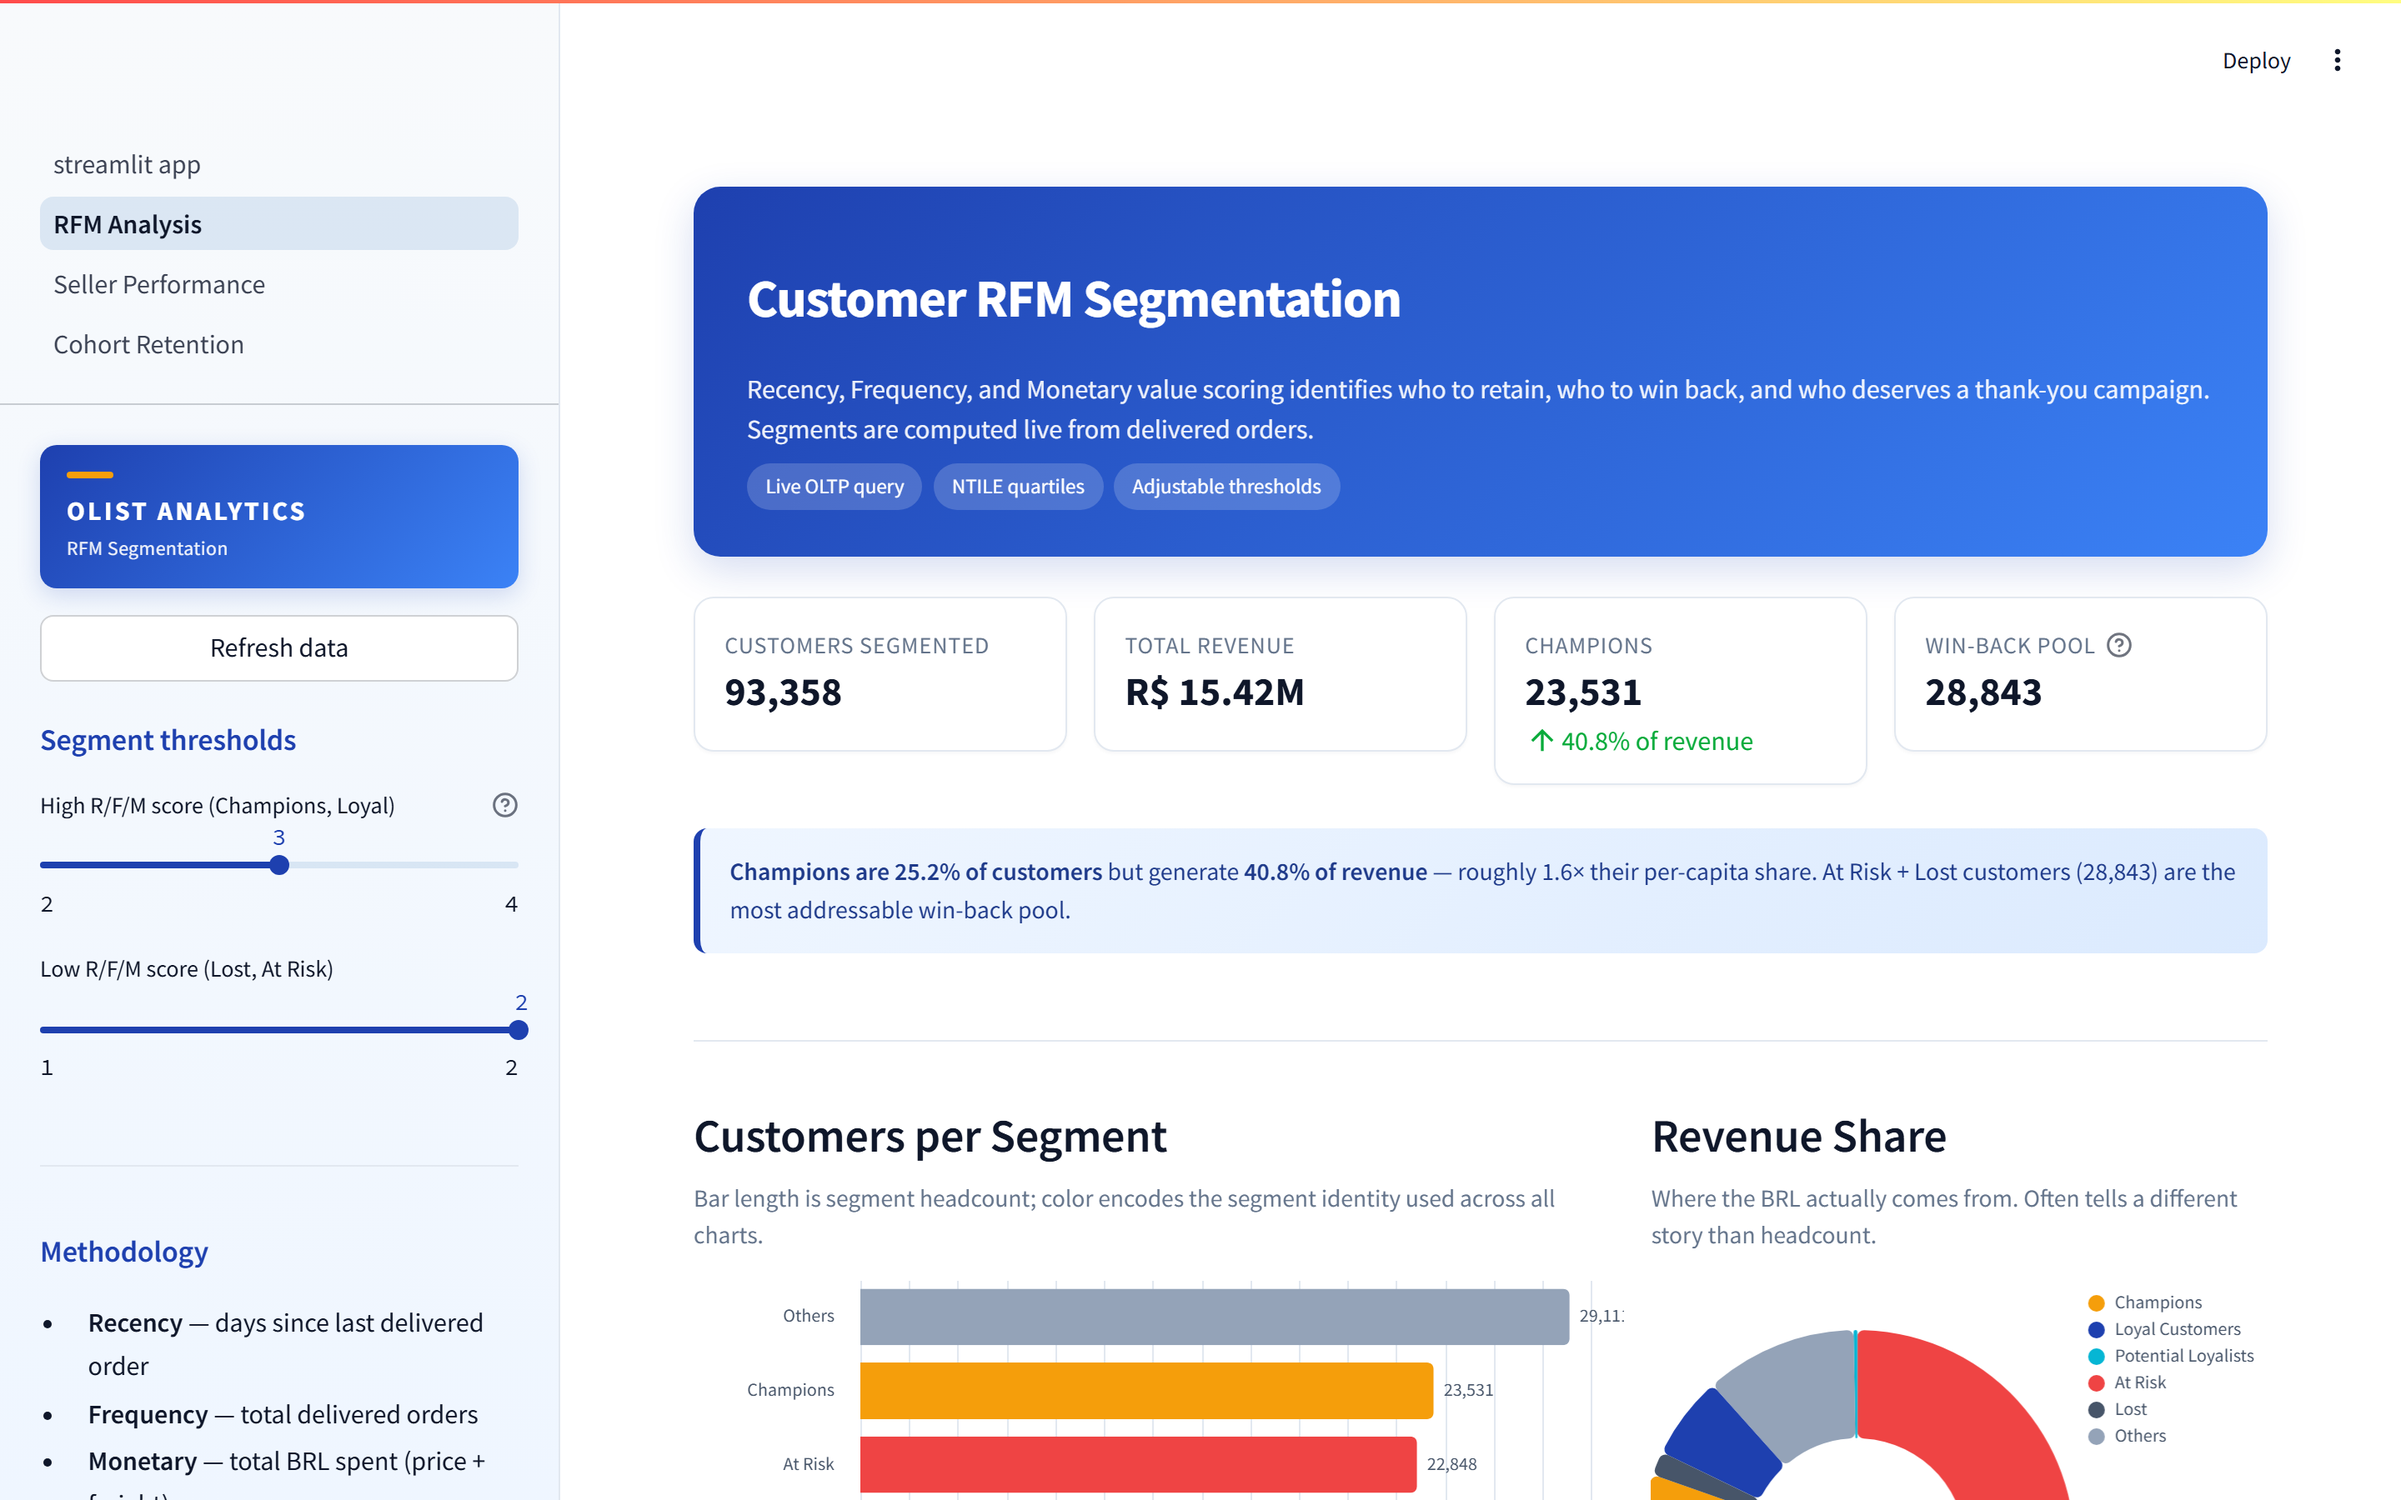
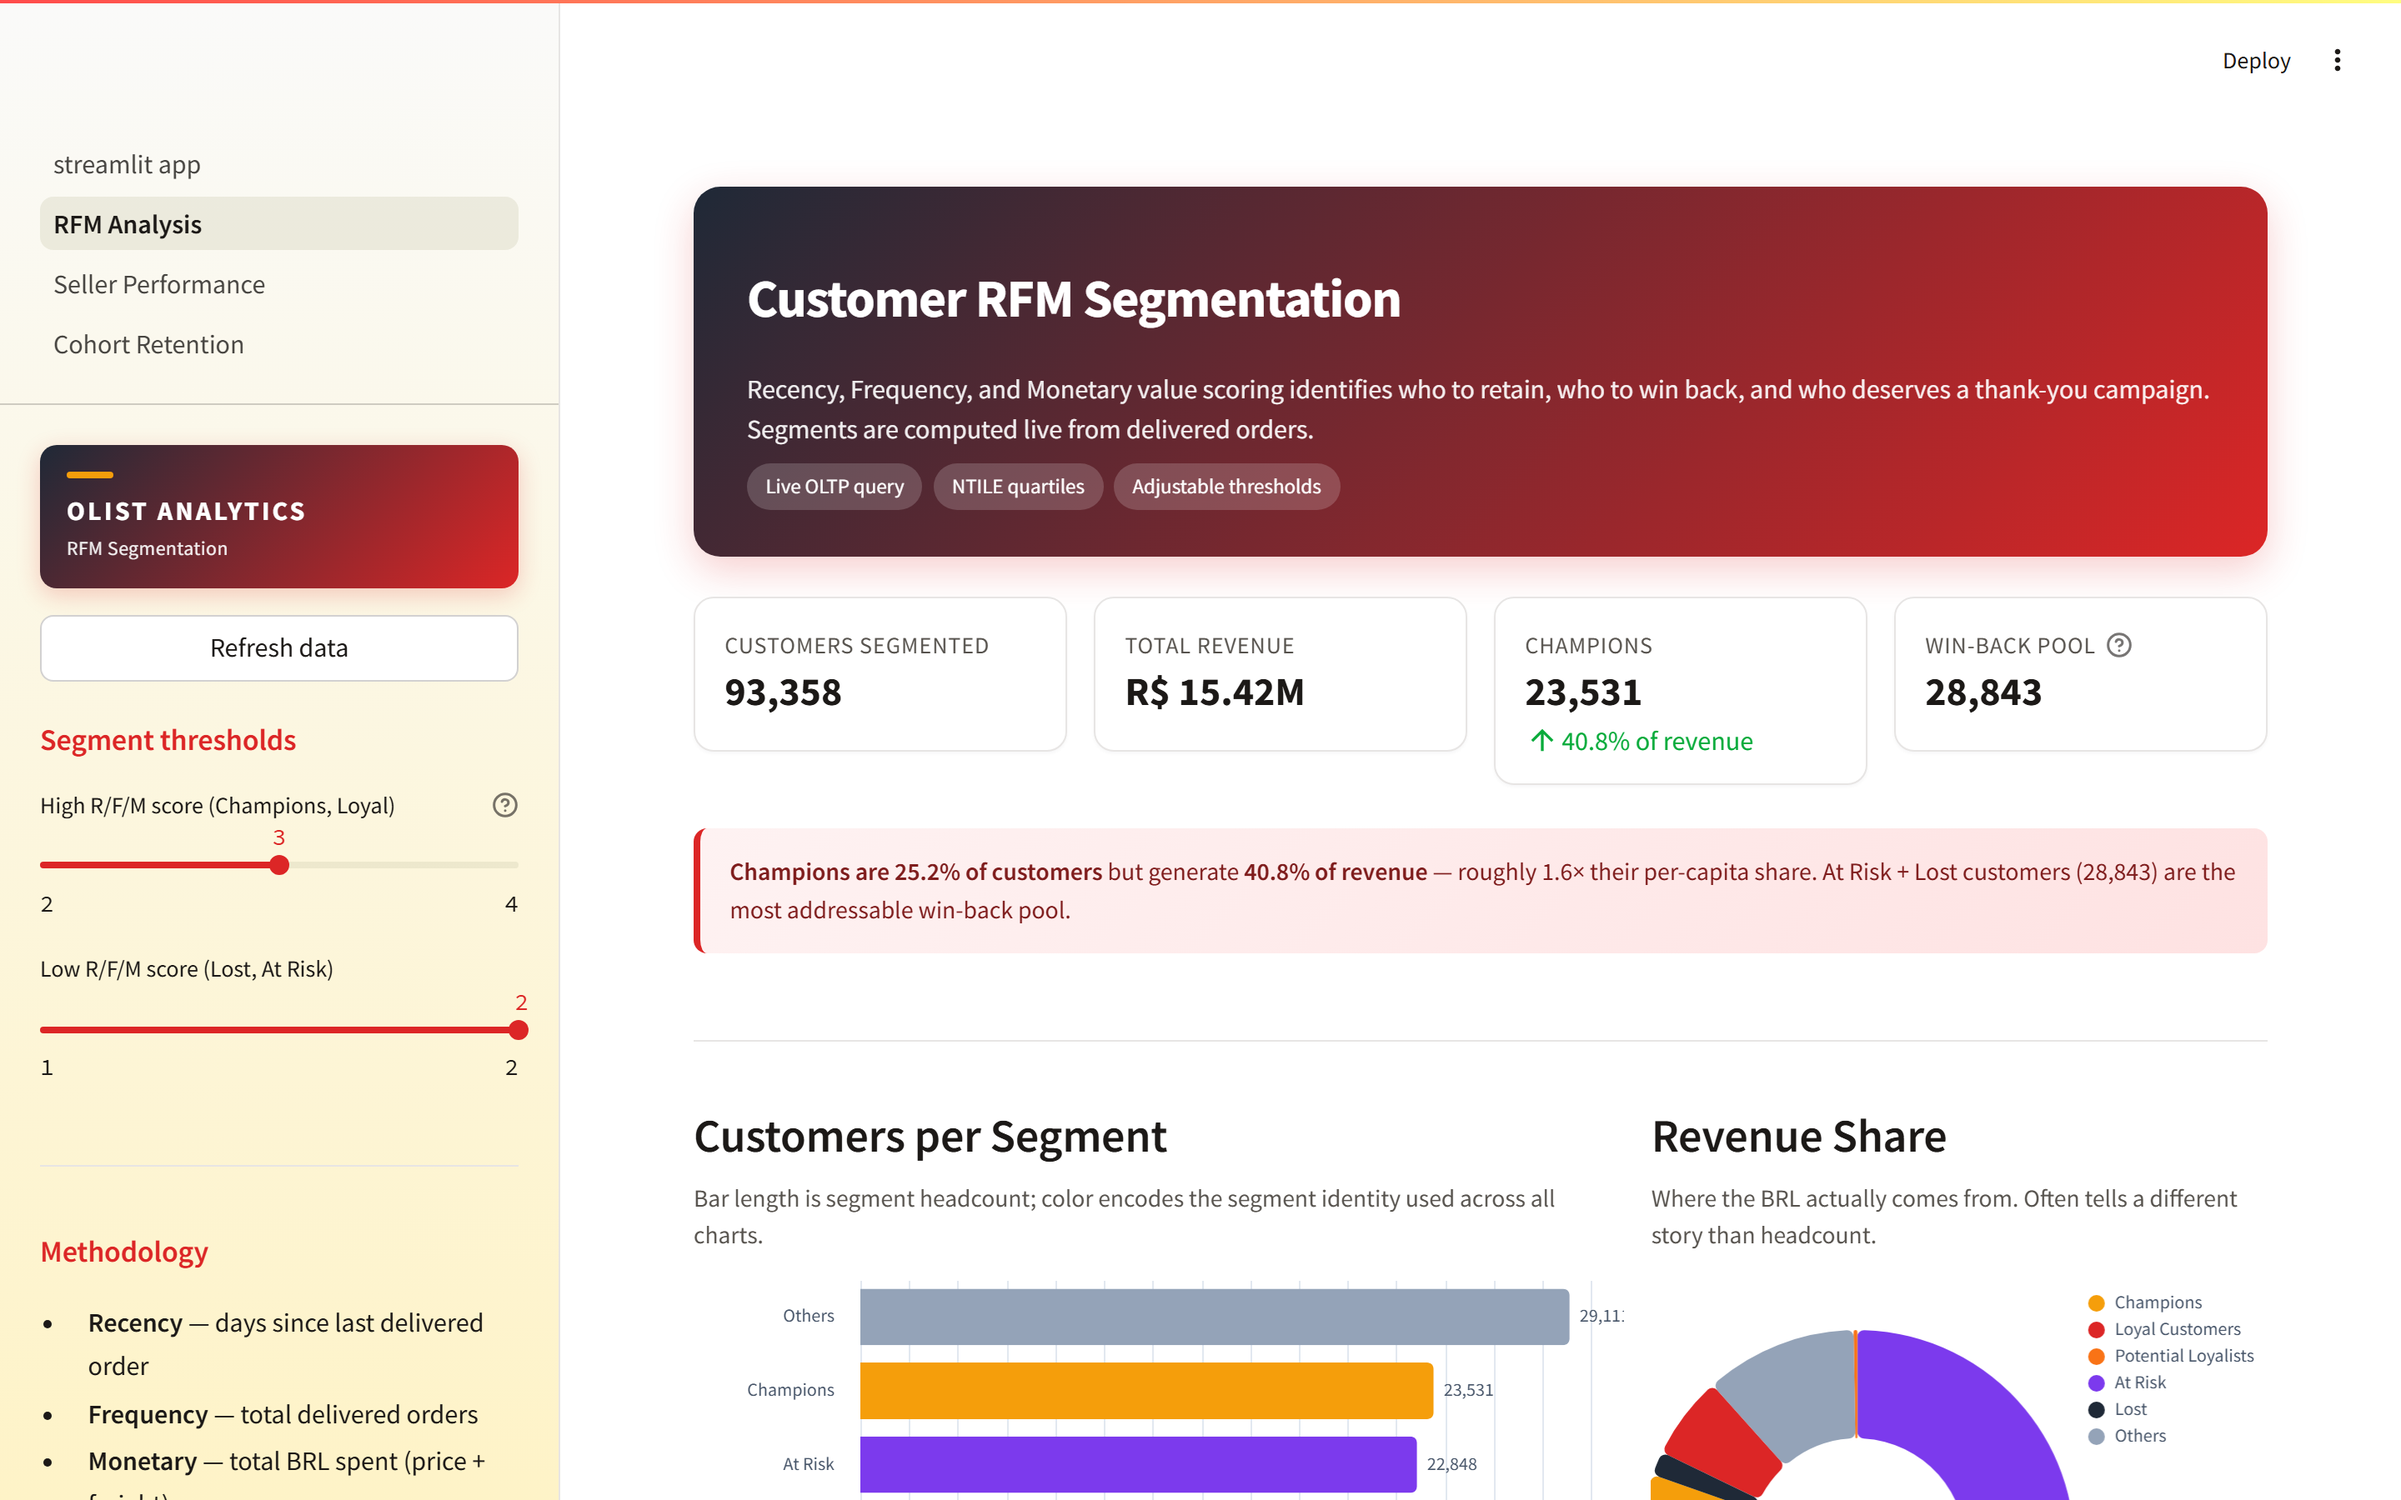
switch theme to volcano (charcoal + ember red) and fix cohort heatmap

diff --git a/app/pages/3_Cohort_Retention.py b/app/pages/3_Cohort_Retention.py
@@ -118,11 +118,17 @@ df["cohort_label"] = pd.to_datetime(df["cohort_month"]).dt.strftime("%Y-%m")
 
 cohorts_count = df["cohort_month"].nunique()
 total_customers = int(df.drop_duplicates("cohort_month")["cohort_size"].sum())
-month_1 = df.loc[df["months_since_first_purchase"] == 1, "retention_rate"]
+
+# Stats are computed from cohorts large enough to be meaningful (>= 50 customers)
+# so single-customer outliers don't drive the headline numbers.
+MIN_COHORT_FOR_STATS = 50
+meaningful = df[df["cohort_size"] >= MIN_COHORT_FOR_STATS]
+month_1 = meaningful.loc[meaningful["months_since_first_purchase"] == 1, "retention_rate"]
 avg_m1 = month_1.mean() if not month_1.empty else 0.0
 best_m1 = month_1.max() if not month_1.empty else 0.0
 best_m1_cohort = (
-    df.loc[df["months_since_first_purchase"] == 1].sort_values("retention_rate", ascending=False)
+    meaningful.loc[meaningful["months_since_first_purchase"] == 1]
+    .sort_values("retention_rate", ascending=False)
     .iloc[0]
     if not month_1.empty
     else None
@@ -142,22 +148,33 @@ c4.metric(
 
 if best_m1_cohort is not None and best_m1 > 0:
     insight(
-        f"<strong>Month-1 repeat rate averages {avg_m1:.2f}%</strong> across all cohorts — "
-        "low, as expected for transactional commerce where most customers buy a single item. "
-        f"The strongest comeback came from <strong>{pd.to_datetime(best_m1_cohort['cohort_month']):%b %Y}</strong> "
-        f"with {best_m1:.2f}% returning the next month."
+        f"<strong>Month-1 repeat rate averages {avg_m1:.2f}%</strong> across cohorts of "
+        f"50+ customers — low, as expected for transactional commerce where most customers "
+        "buy a single item. The strongest comeback came from "
+        f"<strong>{pd.to_datetime(best_m1_cohort['cohort_month']):%b %Y}</strong> with "
+        f"{best_m1:.2f}% returning the next month."
     )
 
 st.divider()
 
 st.subheader("Retention Heatmap (% of cohort active)")
 caption(
-    "Month 0 (always 100%) is omitted so the meaningful pattern is visible. "
-    "Hover any cell for exact counts and original cohort size."
+    "Month 0 (always 100%) is omitted, and cohorts with fewer than 50 customers are filtered "
+    "out so single-customer outliers don't distort the colors. Hover any cell for exact counts."
 )
 
-heatmap_df = df[df["months_since_first_purchase"] > 0].copy()
-color_max = max(heatmap_df["retention_rate"].max(), 5) if not heatmap_df.empty else 5
+MIN_COHORT_SIZE = 50
+heatmap_df = df[
+    (df["months_since_first_purchase"] > 0) & (df["cohort_size"] >= MIN_COHORT_SIZE)
+].copy()
+
+# Olist is highly transactional — meaningful repeat rates are tiny (0.0–1.0%).
+# Color scale auto-fits to the actual data so contrast is visible instead of
+# washed out by an arbitrary upper bound.
+if not heatmap_df.empty:
+    color_max = max(float(heatmap_df["retention_rate"].max()) * 1.1, 0.5)
+else:
+    color_max = 1.0
 
 heatmap = (
     alt.Chart(heatmap_df)
@@ -172,7 +189,7 @@ heatmap = (
         color=alt.Color(
             "retention_rate:Q",
             title="Retention %",
-            scale=alt.Scale(scheme="blues", domain=[0, color_max]),
+            scale=alt.Scale(scheme="reds", domain=[0, color_max], clamp=True),
             legend=alt.Legend(orient="right", gradientLength=400),
         ),
         tooltip=[
@@ -186,17 +203,17 @@ heatmap = (
     .properties(height=620)
 )
 
-# Only label cells with meaningful values to keep the grid clean
-label_df = heatmap_df[heatmap_df["retention_rate"] >= 1].copy()
+# Show every value (Olist values are small and we want to see them all)
+label_df = heatmap_df[heatmap_df["retention_rate"] > 0].copy()
 text = (
     alt.Chart(label_df)
     .mark_text(baseline="middle", fontSize=10, fontWeight=500)
     .encode(
         x=alt.X("months_since_first_purchase:O"),
         y=alt.Y("cohort_label:O", sort="ascending"),
-        text=alt.Text("retention_rate:Q", format=".1f"),
+        text=alt.Text("retention_rate:Q", format=".2f"),
         color=alt.condition(
-            f"datum.retention_rate > {color_max * 0.5}",
+            f"datum.retention_rate > {color_max * 0.6}",
             alt.value("white"),
             alt.value("#0F172A"),
         ),
@@ -204,7 +221,7 @@ text = (
 )
 st.altair_chart(heatmap + text, use_container_width=True)
 note(
-    "Retention drops sharply by month 1 (typically to 1–7%) and stays low — expected for "
+    "Retention drops sharply by month 1 (typically below 1%) and stays low — expected for "
     "transactional commerce where most customers buy a single item. The empty bottom-right "
     "triangle reflects newer cohorts that haven't had time to age a full horizon."
 )
@@ -237,8 +254,11 @@ with col1:
 
 with col2:
     st.subheader("Average Retention Curve")
-    caption("Retention averaged across cohorts at each month-since-first-purchase.")
-    avg_curve = df.groupby("months_since_first_purchase", as_index=False)["retention_rate"].mean()
+    caption("Retention averaged across cohorts of 50+ customers at each month-since-first-purchase.")
+    avg_curve = (
+        meaningful.groupby("months_since_first_purchase", as_index=False)["retention_rate"]
+        .mean()
+    )
     curve = (
         alt.Chart(avg_curve)
         .mark_line(point=alt.OverlayMarkDef(size=80, filled=True, color=PRIMARY), color=PRIMARY, strokeWidth=2.5)

diff --git a/app/style.py b/app/style.py
@@ -13,46 +13,51 @@ import altair as alt
 import streamlit as st
 
 
-PRIMARY = "#1E40AF"
-PRIMARY_LIGHT = "#3B82F6"
-ACCENT = "#F59E0B"
-SUCCESS = "#10B981"
-DANGER = "#EF4444"
-INFO = "#06B6D4"
-NEUTRAL = "#64748B"
+PRIMARY = "#DC2626"        # ember red
+PRIMARY_LIGHT = "#F87171"  # softer red for gradients
+ACCENT = "#F59E0B"         # amber
+SUCCESS = "#10B981"        # green (kept for "delivered" status etc.)
+DANGER = "#7F1D1D"         # deep wine for "bad" indicators
+INFO = "#0891B2"           # teal as a cool counterpoint
+NEUTRAL = "#475569"        # slate
+
+DARK = "#1F2937"           # charcoal — used in hero gradient
+DARK_DEEP = "#111827"      # deepest charcoal
 
 CHART_PALETTE = [
-    "#1E40AF",
-    "#F59E0B",
-    "#06B6D4",
-    "#10B981",
-    "#EF4444",
-    "#A855F7",
-    "#64748B",
-    "#F97316",
+    "#DC2626",  # ember red
+    "#F59E0B",  # amber
+    "#1F2937",  # charcoal
+    "#F97316",  # orange
+    "#10B981",  # green
+    "#7C3AED",  # violet (rare contrast)
+    "#0891B2",  # teal
+    "#64748B",  # slate
 ]
 
 SEGMENT_COLORS = {
-    "Champions": "#F59E0B",
-    "Loyal Customers": "#1E40AF",
-    "Potential Loyalists": "#06B6D4",
-    "At Risk": "#EF4444",
-    "Lost": "#475569",
-    "Others": "#94A3B8",
+    "Champions": "#F59E0B",          # amber — top of the warm scale
+    "Loyal Customers": "#DC2626",    # ember red
+    "Potential Loyalists": "#F97316",  # orange
+    "At Risk": "#7C3AED",            # violet — visual contrast for "danger"
+    "Lost": "#1F2937",               # charcoal — out of the volcano palette
+    "Others": "#94A3B8",             # slate
 }
 
 
 _CSS = """
 <style>
     :root {
-        --primary: #1E40AF;
-        --primary-light: #3B82F6;
+        --primary: #DC2626;
+        --primary-light: #F87171;
+        --primary-deep: #991B1B;
         --accent: #F59E0B;
-        --bg-soft: #F8FAFC;
+        --dark: #1F2937;
+        --bg-soft: #FAFAF9;
         --card: #FFFFFF;
-        --border: #E2E8F0;
-        --text: #0F172A;
-        --muted: #64748B;
+        --border: #E7E5E4;
+        --text: #1C1917;
+        --muted: #57534E;
     }
 
     .main > div:first-child {
@@ -78,12 +83,12 @@ _CSS = """
     }
 
     .hero-card {
-        background: linear-gradient(135deg, #1E40AF 0%, #3B82F6 100%);
+        background: linear-gradient(135deg, #1F2937 0%, #DC2626 100%);
         color: white;
         padding: 1.75rem 2rem;
         border-radius: 16px;
         margin-bottom: 1.5rem;
-        box-shadow: 0 8px 24px rgba(30, 64, 175, 0.18);
+        box-shadow: 0 8px 24px rgba(220, 38, 38, 0.22);
     }
     .hero-card h1 {
         color: white !important;
@@ -133,16 +138,16 @@ _CSS = """
     }
 
     .insight {
-        background: linear-gradient(135deg, #EFF6FF 0%, #DBEAFE 100%);
+        background: linear-gradient(135deg, #FEF2F2 0%, #FEE2E2 100%);
         border-left: 4px solid var(--primary);
         padding: 0.9rem 1.1rem;
         border-radius: 8px;
         margin: 0.6rem 0 1.25rem 0;
         font-size: 0.93rem;
-        color: #1E3A8A;
+        color: #7F1D1D;
         line-height: 1.55;
     }
-    .insight strong { color: #1E3A8A; }
+    .insight strong { color: #7F1D1D; }
 
     .insight-warn {
         background: linear-gradient(135deg, #FEF3C7 0%, #FDE68A 100%);
@@ -178,7 +183,7 @@ _CSS = """
     }
 
     section[data-testid="stSidebar"] {
-        background: linear-gradient(180deg, #F8FAFC 0%, #EFF6FF 100%);
+        background: linear-gradient(180deg, #FAFAF9 0%, #FEF3C7 100%);
         border-right: 1px solid var(--border);
     }
     section[data-testid="stSidebar"] h1,
@@ -188,12 +193,12 @@ _CSS = """
     }
 
     .sidebar-brand {
-        background: linear-gradient(135deg, #1E40AF 0%, #3B82F6 100%);
+        background: linear-gradient(135deg, #1F2937 0%, #DC2626 100%);
         border-radius: 10px;
         padding: 1rem 1rem 0.9rem 1rem;
         margin: 0 0 1rem 0;
         color: white;
-        box-shadow: 0 4px 14px rgba(30, 64, 175, 0.18);
+        box-shadow: 0 4px 14px rgba(220, 38, 38, 0.22);
     }
     .sidebar-brand .accent {
         width: 28px; height: 4px; border-radius: 2px;

diff --git a/app/streamlit_app.py b/app/streamlit_app.py
@@ -282,7 +282,7 @@ with right:
                     legend=None,
                     scale=alt.Scale(
                         domain=["delivered", "shipped", "canceled", "invoiced", "processing", "unavailable", "approved", "created"],
-                        range=[SUCCESS, PRIMARY_LIGHT, "#EF4444", "#A855F7", ACCENT, "#94A3B8", "#06B6D4", "#64748B"],
+                        range=[SUCCESS, "#0891B2", "#7F1D1D", "#7C3AED", ACCENT, "#94A3B8", "#0EA5E9", "#64748B"],
                     ),
                 ),
                 tooltip=[
@@ -367,7 +367,7 @@ if not payments.empty:
                 title="Payment Type",
                 scale=alt.Scale(
                     domain=["credit_card", "boleto", "voucher", "debit_card", "not_defined"],
-                    range=[PRIMARY, ACCENT, "#06B6D4", "#10B981", "#94A3B8"],
+                    range=[PRIMARY, ACCENT, "#0891B2", SUCCESS, "#94A3B8"],
                 ),
             ),
             tooltip=[

diff --git a/app/pages/2_Seller_Performance.py b/app/pages/2_Seller_Performance.py
@@ -224,7 +224,7 @@ top_chart = (
         color=alt.Color(
             "avg_review_score:Q",
             title="Avg Review",
-            scale=alt.Scale(scheme="blues", domain=[3.0, 5.0]),
+            scale=alt.Scale(scheme="oranges", domain=[3.0, 5.0]),
             legend=alt.Legend(orient="top-right"),
         ),
         tooltip=[
@@ -258,7 +258,7 @@ state_chart = (
         y=alt.Y("seller_state:N", sort="-x", title=None),
         color=alt.Color(
             "total_revenue:Q",
-            scale=alt.Scale(scheme="blues"),
+            scale=alt.Scale(scheme="reds"),
             legend=None,
         ),
         tooltip=[
